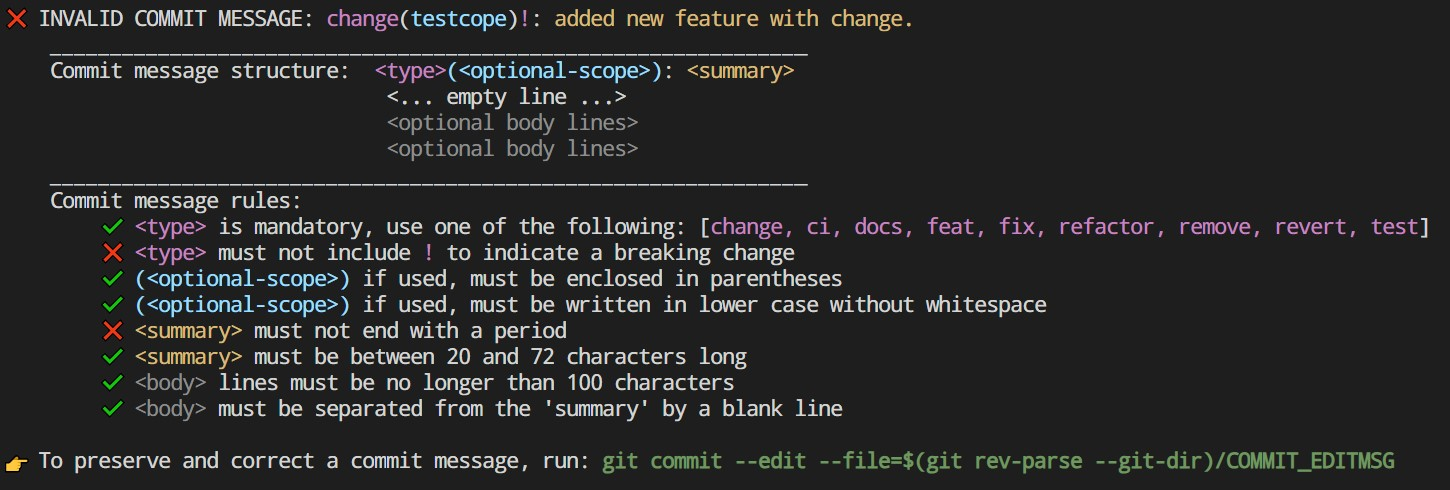
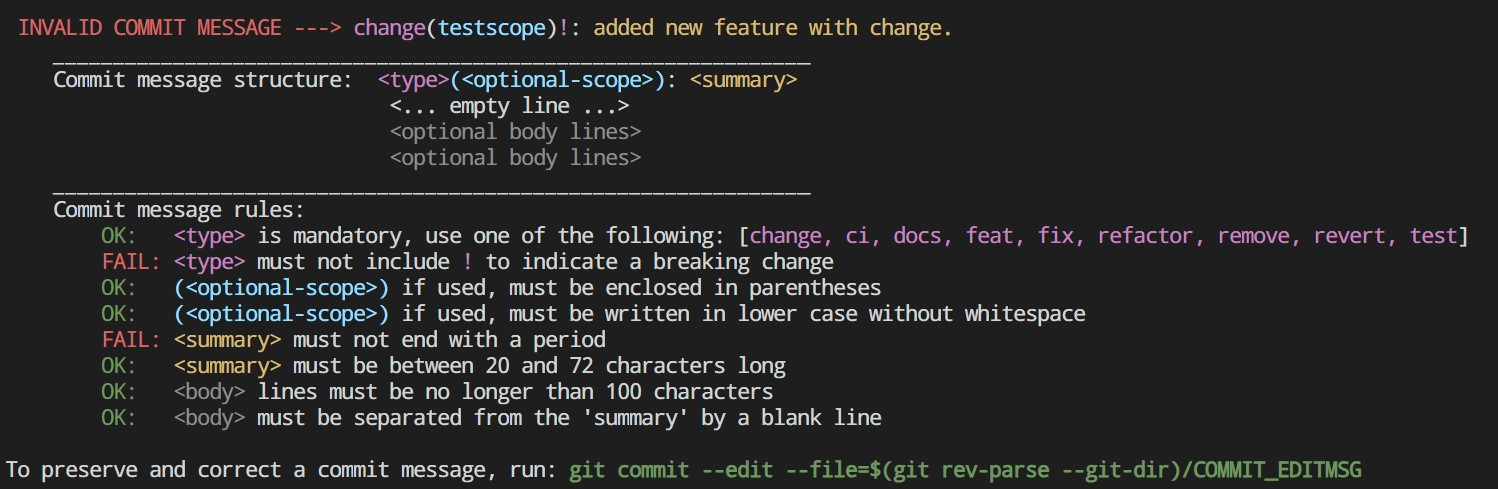
fix: unicode issues when utf-8 encoding is not set in system
Closes https://github.com/espressif/conventional-precommit-linter/issues/22

Changed region(s): [[0.031, 0.3681, 0.9931, 0.8896], [0.0, 0.0, 0.6517, 0.3374], [0.0, 0.9202, 0.9621, 0.9816]]

diff --git a/conventional_precommit_linter/hook.py b/conventional_precommit_linter/hook.py
@@ -7,9 +7,11 @@ from typing import Tuple
 
 from .helpers import _color_blue
 from .helpers import _color_bold_green
+from .helpers import _color_green
 from .helpers import _color_grey
 from .helpers import _color_orange
 from .helpers import _color_purple
+from .helpers import _color_red
 
 DEFAULT_TYPES = ['change', 'ci', 'docs', 'feat', 'fix', 'refactor', 'remove', 'revert', 'test']
 
@@ -138,7 +140,7 @@ def check_body_lines_length(message_body: List[str], args: argparse.Namespace) -
 
 def _get_icon_for_rule(status: bool) -> str:
     """Return a icon depending on the status of the rule (True = error found, False = success))"""
-    return '❌' if status else '✔ '
+    return f'{ _color_red("FAIL:")}' if status else f'{_color_green("OK:  ")}'
 
 
 def print_report(commit_type: str, commit_scope: Optional[str], commit_summary: str, args) -> None:
@@ -196,7 +198,7 @@ def print_report(commit_type: str, commit_scope: Optional[str], commit_summary: 
     # Combine the rule messages into the final report block
     message_rules_block = '    ' + '\n        '.join(rule_messages)
 
-    full_guide_message = f"""\n❌ INVALID COMMIT MESSAGE: {commit_message}
+    full_guide_message = f"""\n {_color_red("FAIL: ")}INVALID COMMIT MESSAGE: {commit_message}
     _______________________________________________________________
     Commit message structure:  {_color_purple('<type>')}{_color_blue("(<optional-scope>)")}: {_color_orange('<summary>')}
                                 <... empty line ...>
@@ -208,7 +210,7 @@ def print_report(commit_type: str, commit_scope: Optional[str], commit_summary: 
     """
     print(full_guide_message)
     print(
-        f'👉 To preserve and correct a commit message, run: {_color_bold_green("git commit --edit --file=$(git rev-parse --git-dir)/COMMIT_EDITMSG")}\n'
+        f'To preserve and correct a commit message, run: {_color_bold_green("git commit --edit --file=$(git rev-parse --git-dir)/COMMIT_EDITMSG")}\n'
     )
 
 
@@ -237,7 +239,7 @@ def main(argv: Optional[List[str]] = None) -> int:
     input_commit_message = read_commit_message(args.input)
 
     if not input_commit_message.strip():
-        print('❌ Commit message seems to be empty.')
+        print('FAIL: Commit message seems to be empty.')
         return 1
 
     message_lines = input_commit_message.strip().split('\n')  # Split the commit message into lines
@@ -245,7 +247,7 @@ def main(argv: Optional[List[str]] = None) -> int:
     message_body = message_lines[1:]  # The body is everything after the summary, if it exists
 
     if not check_colon_after_type(message_title):
-        print(f'❌ Missing colon after {_color_purple("<type>")} or {_color_blue("(<optional-scope>)")}.')
+        print(f'FAIL: Missing colon after {_color_purple("<type>")} or {_color_blue("(<optional-scope>)")}.')
         print(
             f'\nEnsure the commit message has the format "{_color_purple("<type>")}{_color_blue("(<optional-scope>)")}: {_color_orange("<summary>")}"'
         )

diff --git a/conventional_precommit_linter/helpers.py b/conventional_precommit_linter/helpers.py
@@ -23,3 +23,11 @@ def _color_blue(text: str) -> str:
 
 def _color_grey(text: str) -> str:
     return f'{Fore.LIGHTBLACK_EX}{text}{Style.RESET_ALL}'
+
+
+def _color_red(text: str) -> str:
+    return f'{Fore.RED}{text}{Style.RESET_ALL}'
+
+
+def _color_green(text: str) -> str:
+    return f'{Fore.GREEN}{text}{Style.RESET_ALL}'
